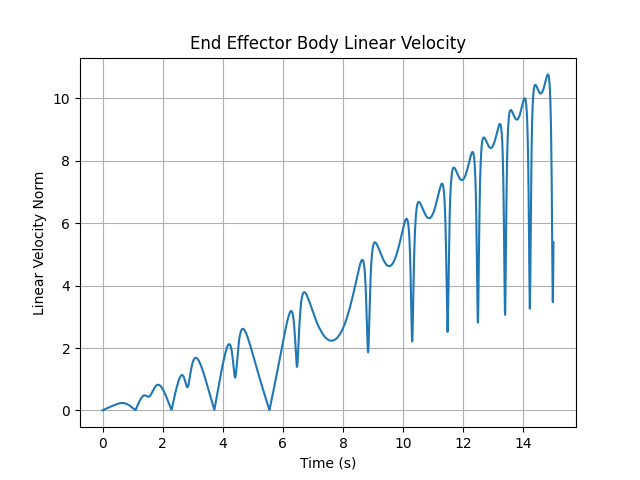
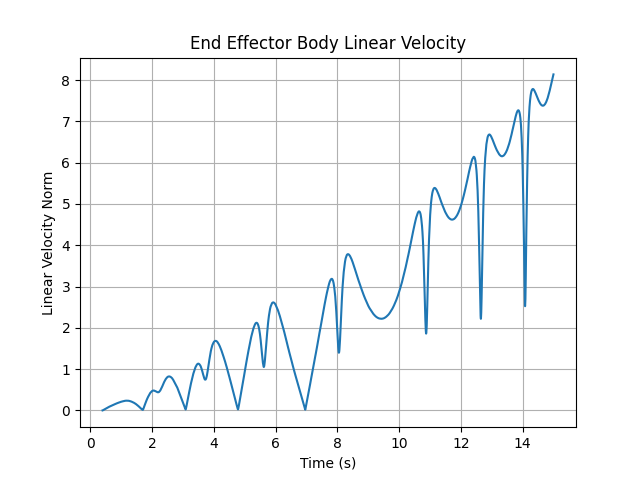
Final with viewer view

diff --git a/Problem_4.py b/Problem_4.py
@@ -34,26 +34,28 @@ x_axis = np.array([])
 b3_body_lin = np.array([])
 b3_spatial_ang = np.array([])
 b1_spatial_ang = np.array([])
+with mujoco.viewer.launch_passive(model, data) as viewer:
 
-while ((time.time() - start_time) < sim_time):
-    step_start = time.time()
+    while ((time.time() - start_time) < sim_time):
+        step_start = time.time()
     
-    torque = -15*sgn(data.qvel[1].copy())
-    data.ctrl[actuator_id] = torque
+        torque = -15*sgn(data.qvel[1].copy())
+        data.ctrl[actuator_id] = torque
 
-    twists = np.array(np.reshape(data.sensordata.copy(), (-1, 6))).round(4)
+        twists = np.array(np.reshape(data.sensordata.copy(), (-1, 6))).round(4)
 
-    mj.mj_step(model, data)
+        mj.mj_step(model, data)
 
-    x_axis = np.append(x_axis, time.time() - start_time)
-    height = np.append(height, data.xpos[body3_id][2])
-    b3_body_lin = np.append(b3_body_lin, twists[0][0:3])
-    b3_spatial_ang = np.append(b3_spatial_ang, twists[1][3:6])
-    b1_spatial_ang = np.append(b1_spatial_ang, twists[4][3:6])
+        x_axis = np.append(x_axis, time.time() - start_time)
+        height = np.append(height, data.xpos[body3_id][2])
+        b3_body_lin = np.append(b3_body_lin, twists[0][0:3])
+        b3_spatial_ang = np.append(b3_spatial_ang, twists[1][3:6])
+        b1_spatial_ang = np.append(b1_spatial_ang, twists[4][3:6])
     
-    time_until_next_step = model.opt.timestep - (time.time() - step_start) #this limits the while loop to only run every 0.002seconds
-    if time_until_next_step > 0:
-      time.sleep(time_until_next_step)
+        time_until_next_step = model.opt.timestep - (time.time() - step_start) #this limits the while loop to only run every 0.002seconds
+        viewer.sync()
+        if time_until_next_step > 0:
+            time.sleep(time_until_next_step)
 
 
 #**************4A****************
